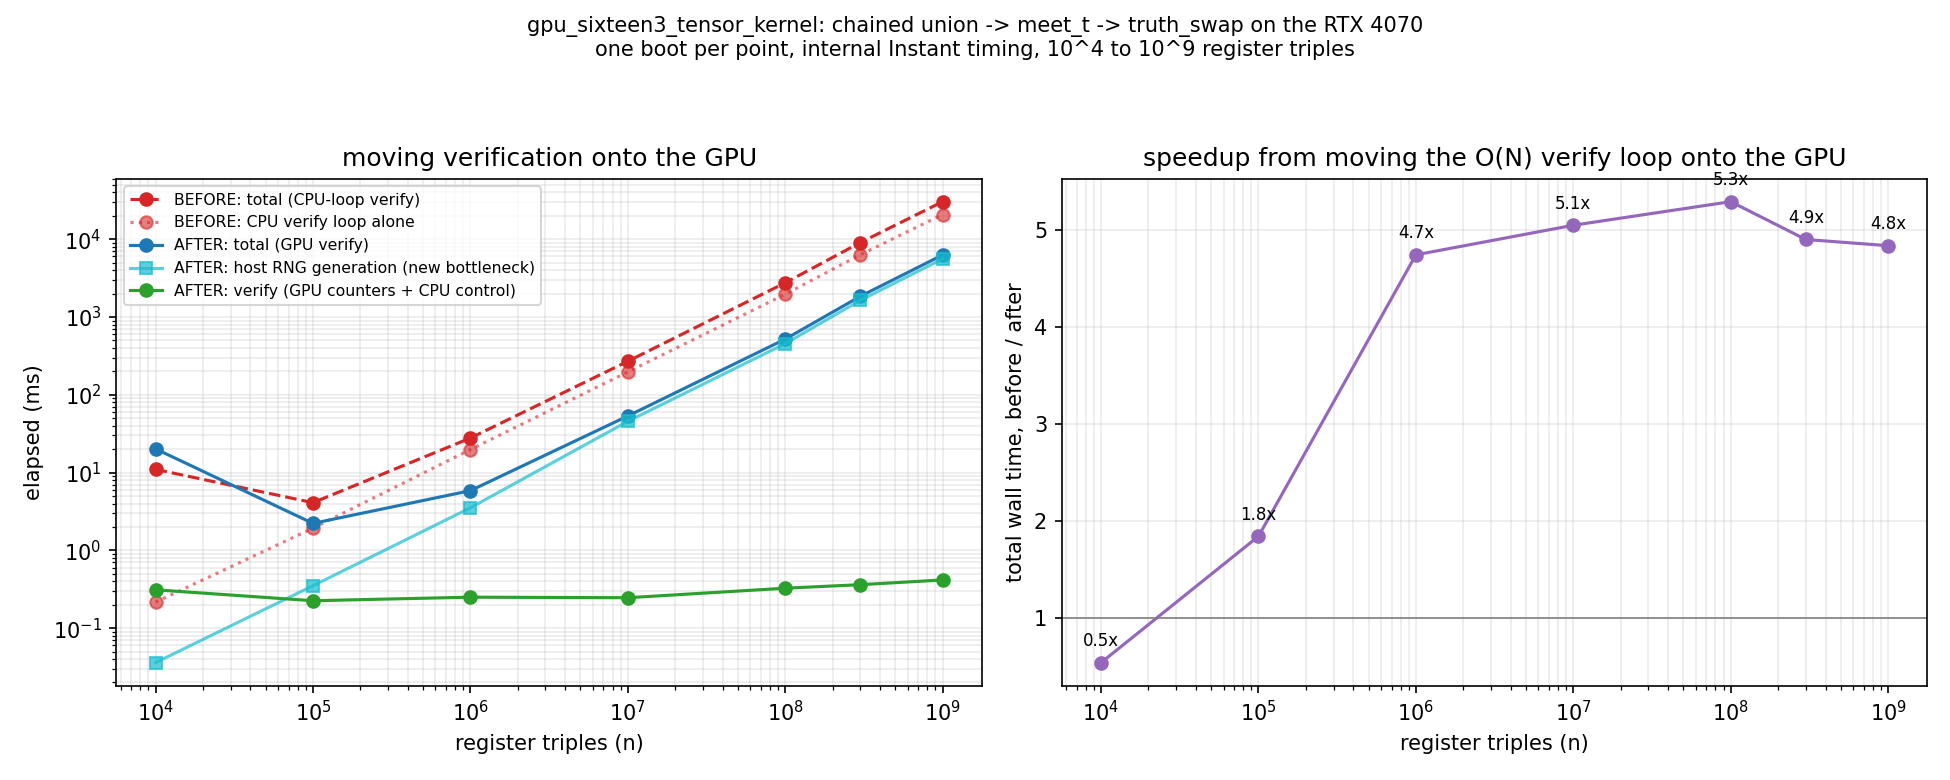
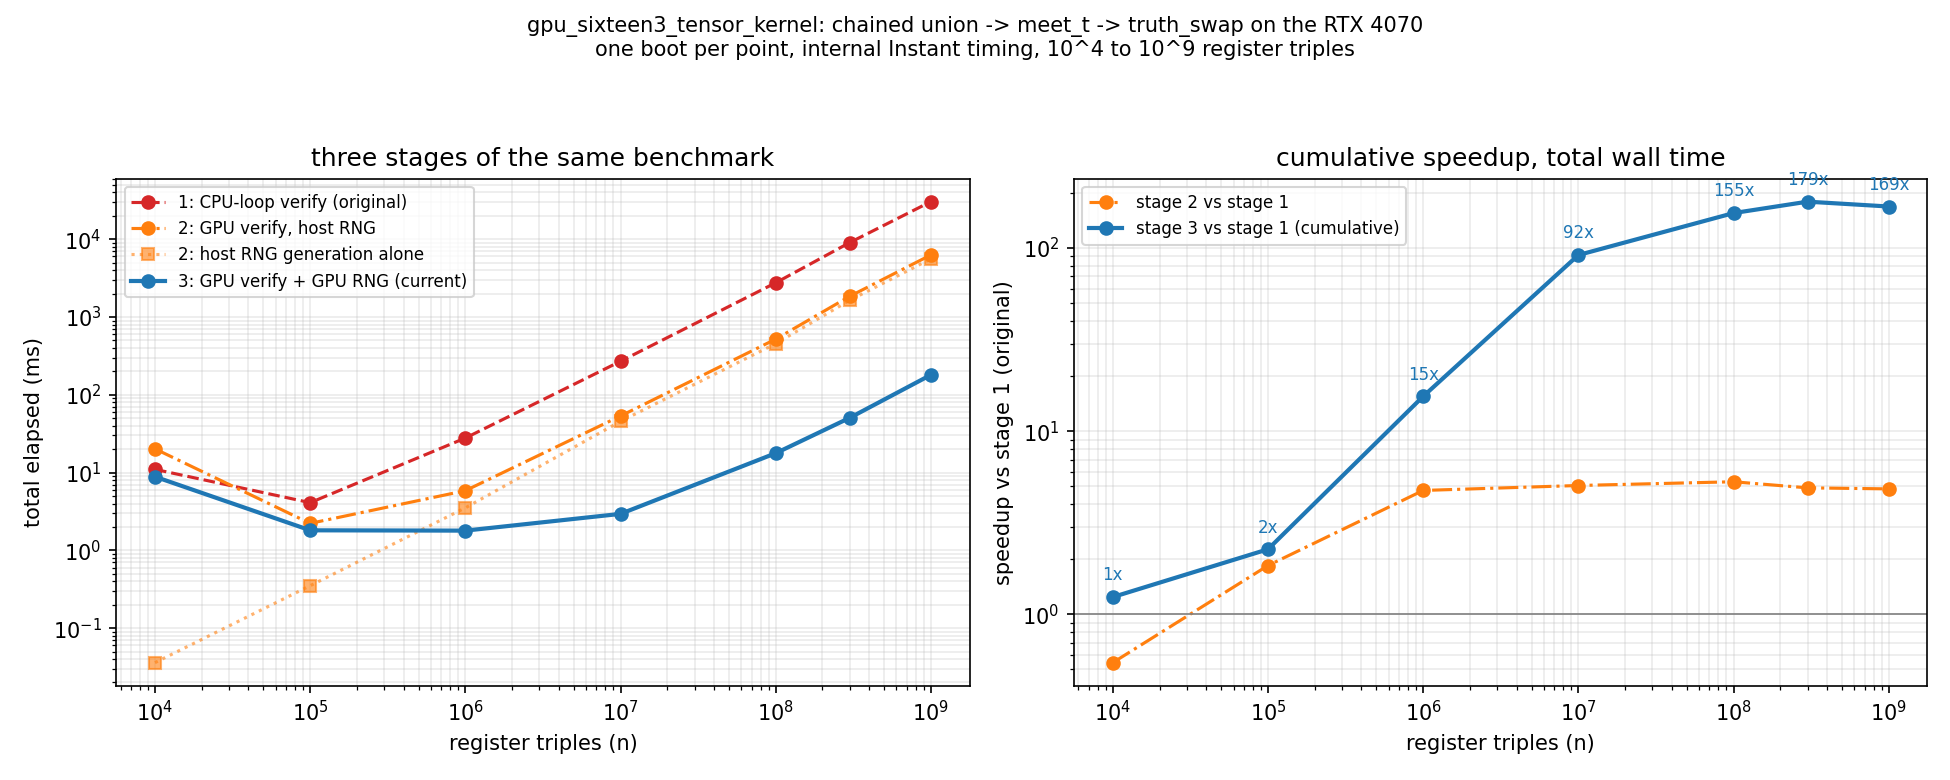
Moved gpu_sixteen3_tensor_kernel's input generation onto the GPU. Once verification stopped being the bottleneck, host-side RNG (a single- threaded loop filling three n-length buffers, then htod-copying them) was 89% of total time at n=10^9. Each thread now derives its own x, y, z from its own index
Reran the full 10^4-10^9 sweep, kept stage 2's numbers as their own file
(gpu_sixteen3_tensor_kernel_scaling_gpu_verify_host_rng.csv) rather than
overwrite them, alongside the original stage 1 file. Total wall time at
n=10^9: 180ms, down from 6283ms with GPU verify alone, down from 30427ms
in the original CPU-verify version. About 169x cumulative, peaking at
179x at n=3x10^8. Every stage still checked on-GPU against the
independent flat kernel and against a fixed 10,000-entry CPU control
sample: 0 mismatches at every n tried, self-reference check holds.

diff --git a/src/gpu_sixteen3_tensor_kernel.rs b/src/gpu_sixteen3_tensor_kernel.rs
@@ -16,6 +16,13 @@
 //! by gate, and chains three real gates through it -- union, meet_t, then
 //! truth_swap (the one of the three that actually exercises step 6's
 //! permutation) -- checked against the CPU at every stage, not just the end.
+//!
+//! Input generation is on the GPU too, one thread deriving its own x, y, z
+//! from its own index and a seed (`mix`, a MurmurHash3 finalizer) instead
+//! of a host loop filling a buffer the kernel then reads -- no host RNG
+//! cost, no htod copy of the inputs at all. See measurements/
+//! gpu_sixteen3_tensor_kernel_scaling.png: at n=10^9 host generation was
+//! 5.6s of a 6.3s total, the single largest cost in the whole pipeline.
 
 use alloc::format;
 use alloc::string::String;
@@ -48,19 +55,36 @@ use std::time::Instant;
 /// sample against the real CPU `imasm_core` functions as the ground-truth
 /// control that a GPU-only self-consistency check cannot be.
 const TENSOR_SRC: &str = r#"
+// MurmurHash3 finalizer, a counter-based generator: same (seed, counter)
+// always produces the same value, no state carried between threads, no
+// host-side loop -- each thread derives its own x, y, z from its own
+// index instead of reading them from a buffer someone else filled.
+__device__ __forceinline__ unsigned long long mix(unsigned long long seed, unsigned long long counter)
+{
+    unsigned long long h = seed ^ (counter * 0x9E3779B97F4A7C15ULL);
+    h ^= h >> 33; h *= 0xff51afd7ed558ccdULL;
+    h ^= h >> 33; h *= 0xc4ceb9fe1a85ec53ULL;
+    h ^= h >> 33;
+    return h;
+}
+
 // counters[0..7) = mismatch1, mismatch2, mismatch3, both1, both2, both3, self_ref_fail --
 // one buffer, indexed by offset, so the host side passes one argument, not seven.
 extern "C" __global__ void tensor_chain_verify(
     unsigned char *out_stage1, unsigned char *out_stage2, unsigned char *out_stage3,
+    unsigned char *out_x, unsigned char *out_y, unsigned char *out_z,
     unsigned long long *counters,
-    const unsigned char *x, const unsigned char *y, const unsigned char *z,
-    const unsigned long long n)
+    const unsigned long long seed, const unsigned long long n)
 {
     unsigned long long i = (unsigned long long)blockIdx.x * blockDim.x + threadIdx.x;
     if (i >= n) return;
 
-    // ⊢ void state for this thread's slot -- nothing read yet.
-    unsigned char xv = x[i], yv = y[i], zv = z[i];
+    // ⊢ void state for this thread's slot -- generated here, not read from
+    // a host-filled buffer: no host RNG loop, no htod copy of the inputs.
+    unsigned char xv = (unsigned char)(mix(seed, i*3ULL + 0) & 0xF);
+    unsigned char yv = (unsigned char)(mix(seed, i*3ULL + 1) & 0xF);
+    unsigned char zv = (unsigned char)(mix(seed, i*3ULL + 2) & 0xF);
+    out_x[i] = xv; out_y[i] = yv; out_z[i] = zv;
 
     // ── stage 1: union(x, y), arm/rejoin shape ──
     // ∈ split into T-arm / F-arm lanes.
@@ -129,16 +153,6 @@ fn pack(r: Reg16_3) -> u8 {
 fn unpack(b: u8) -> Reg16_3 {
     Reg16_3 { big_t: b & 1 != 0, big_f: b & 2 != 0, small_t: b & 4 != 0, small_f: b & 8 != 0 }
 }
-struct Xorshift(u64);
-impl Xorshift {
-    fn next_u8(&mut self) -> u8 {
-        let mut x = self.0;
-        x ^= x << 13; x ^= x >> 7; x ^= x << 17;
-        self.0 = x;
-        (x & 0xF) as u8
-    }
-}
-
 pub fn run(n: u64) -> String {
     let mut out = format!("gpu_sixteen3_tensor_kernel: chained union -> meet_t -> truth_swap, {n} register triples\n\n");
 
@@ -163,20 +177,20 @@ pub fn run(n: u64) -> String {
         Err(e) => return format!("{out}  load tensor_chain_verify failed: {e}\n"),
     };
 
+    // No host RNG loop, no htod copy of input triples -- each thread
+    // derives its own x, y, z from its own index and a seed (see `mix` in
+    // TENSOR_SRC), so the only "generation" cost left is choosing the seed.
     let t_gen = Instant::now();
-    let mut rng = Xorshift(0xC2B2AE3D27D4EB4F ^ n.wrapping_mul(0x165667B19E3779F9));
-    let xs_packed: Vec<u8> = (0..n).map(|_| rng.next_u8()).collect();
-    let ys_packed: Vec<u8> = (0..n).map(|_| rng.next_u8()).collect();
-    let zs_packed: Vec<u8> = (0..n).map(|_| rng.next_u8()).collect();
+    let seed = 0xC2B2AE3D27D4EB4Fu64 ^ n.wrapping_mul(0x165667B19E3779F9);
     let gen_elapsed = t_gen.elapsed();
 
     let t_htod = Instant::now();
-    let d_x = match stream.clone_htod(&xs_packed) { Ok(d) => d, Err(e) => return format!("{out}  htod x: {e}") };
-    let d_y = match stream.clone_htod(&ys_packed) { Ok(d) => d, Err(e) => return format!("{out}  htod y: {e}") };
-    let d_z = match stream.clone_htod(&zs_packed) { Ok(d) => d, Err(e) => return format!("{out}  htod z: {e}") };
     let mut d_s1 = match stream.alloc_zeros::<u8>(n as usize) { Ok(d) => d, Err(e) => return format!("{out}  alloc s1: {e}") };
     let mut d_s2 = match stream.alloc_zeros::<u8>(n as usize) { Ok(d) => d, Err(e) => return format!("{out}  alloc s2: {e}") };
     let mut d_s3 = match stream.alloc_zeros::<u8>(n as usize) { Ok(d) => d, Err(e) => return format!("{out}  alloc s3: {e}") };
+    let mut d_x = match stream.alloc_zeros::<u8>(n as usize) { Ok(d) => d, Err(e) => return format!("{out}  alloc x: {e}") };
+    let mut d_y = match stream.alloc_zeros::<u8>(n as usize) { Ok(d) => d, Err(e) => return format!("{out}  alloc y: {e}") };
+    let mut d_z = match stream.alloc_zeros::<u8>(n as usize) { Ok(d) => d, Err(e) => return format!("{out}  alloc z: {e}") };
     let mut d_counters = match stream.alloc_zeros::<u64>(7) { Ok(d) => d, Err(e) => return format!("{out}  alloc counters: {e}") };
 
     {
@@ -184,10 +198,11 @@ pub fn run(n: u64) -> String {
         builder.arg(&mut d_s1);
         builder.arg(&mut d_s2);
         builder.arg(&mut d_s3);
+        builder.arg(&mut d_x);
+        builder.arg(&mut d_y);
+        builder.arg(&mut d_z);
         builder.arg(&mut d_counters);
-        builder.arg(&d_x);
-        builder.arg(&d_y);
-        builder.arg(&d_z);
+        builder.arg(&seed);
         builder.arg(&n);
         let cfg = LaunchConfig::for_num_elems(n as u32);
         if let Err(e) = unsafe { builder.launch(cfg) } {
@@ -230,14 +245,17 @@ pub fn run(n: u64) -> String {
     // imasm_core functions directly, cost bounded regardless of n.
     let t_control = Instant::now();
     let k = (n as usize).min(10_000);
+    let ctrl_x: Vec<u8> = match stream.clone_dtoh(&d_x.slice(0..k)) { Ok(v) => v, Err(e) => return format!("{out}  dtoh control x: {e}") };
+    let ctrl_y: Vec<u8> = match stream.clone_dtoh(&d_y.slice(0..k)) { Ok(v) => v, Err(e) => return format!("{out}  dtoh control y: {e}") };
+    let ctrl_z: Vec<u8> = match stream.clone_dtoh(&d_z.slice(0..k)) { Ok(v) => v, Err(e) => return format!("{out}  dtoh control z: {e}") };
     let ctrl_s1: Vec<u8> = match stream.clone_dtoh(&d_s1.slice(0..k)) { Ok(v) => v, Err(e) => return format!("{out}  dtoh control s1: {e}") };
     let ctrl_s2: Vec<u8> = match stream.clone_dtoh(&d_s2.slice(0..k)) { Ok(v) => v, Err(e) => return format!("{out}  dtoh control s2: {e}") };
     let ctrl_s3: Vec<u8> = match stream.clone_dtoh(&d_s3.slice(0..k)) { Ok(v) => v, Err(e) => return format!("{out}  dtoh control s3: {e}") };
     let mut control_mismatch = 0u64;
     for i in 0..k {
-        let x = unpack(xs_packed[i]);
-        let y = unpack(ys_packed[i]);
-        let z = unpack(zs_packed[i]);
+        let x = unpack(ctrl_x[i]);
+        let y = unpack(ctrl_y[i]);
+        let z = unpack(ctrl_z[i]);
         let cpu_s1 = x.union(y);
         let cpu_s2 = meet_t(cpu_s1, z);
         let cpu_s3 = cpu_s2.truth_swap();
@@ -261,7 +279,7 @@ pub fn run(n: u64) -> String {
     ));
 
     out.push_str(&format!(
-        "\n  TIMING n={n} gen_ms={:.3} htod_launch_sync_ms={:.3} dtoh_counters_ms={:.3} cpu_control_ms={:.3} (control sample size {k}) total_ms={:.3}\n",
+        "\n  TIMING n={n} seed_ms={:.3} alloc_launch_sync_ms={:.3} dtoh_counters_ms={:.3} cpu_control_ms={:.3} (control sample size {k}) total_ms={:.3}\n",
         gen_elapsed.as_secs_f64() * 1000.0,
         htod_launch_elapsed.as_secs_f64() * 1000.0,
         dtoh_elapsed.as_secs_f64() * 1000.0,

diff --git a/measurements/plot_gpu_sixteen3_tensor_kernel_scaling.py b/measurements/plot_gpu_sixteen3_tensor_kernel_scaling.py
@@ -1,20 +1,26 @@
 #!/usr/bin/env python3
-"""Two charts from real `gpu_sixteen3_tensor_kernel <n>` runs on the RTX
-4070, one boot per n so CUDA context/module setup happens once and every
-number is the module's own internal Instant timing, not shell wall-clock
-including boot.
+"""Three stages of the same real benchmark, `gpu_sixteen3_tensor_kernel <n>`
+on the RTX 4070, n from 10^4 to 10^9, one boot per point so CUDA
+context/module setup happens once and every number is the module's own
+internal Instant timing, not shell wall-clock including boot.
 
-BEFORE (gpu_sixteen3_tensor_kernel_scaling_before_gpu_verify.csv): the
-original module, verification a single-threaded CPU loop reading every
-GPU result back and recomputing it against imasm_core.
+STAGE 1 (*_before_gpu_verify.csv): the original module. Verification was a
+single-threaded CPU loop reading every GPU result back and recomputing it
+against imasm_core.
 
-AFTER (gpu_sixteen3_tensor_kernel_scaling.csv): verification moved onto
-the GPU -- every thread also computes the same three stages via an
-independently-written flat kernel and folds disagreement into one atomic
-counter per stage, O(N) work that never leaves the device. A small,
-fixed-size sample (10,000 entries regardless of n) still gets checked
-directly against the real CPU imasm_core functions, the ground-truth
-control a GPU-only self-consistency check cannot be.
+STAGE 2 (*_gpu_verify_host_rng.csv): verification moved onto the GPU --
+every thread also computes the same three stages via an independently-
+written flat kernel and folds disagreement into one atomic counter per
+stage, O(N) work that never leaves the device. Input triples were still
+generated by a host-side loop and copied to the device (htod).
+
+STAGE 3 (gpu_sixteen3_tensor_kernel_scaling.csv, current): input generation
+moved onto the GPU too -- each thread derives its own x, y, z from its own
+index and a seed (a MurmurHash3-finalizer mix, counter-based, no host loop,
+no htod of the inputs at all). A fixed 10,000-entry sample, regardless of
+n, is still read back and checked directly against the real CPU imasm_core
+functions at every stage -- the ground-truth control a GPU-only
+self-consistency check cannot be.
 """
 import csv
 import matplotlib.pyplot as plt
@@ -26,45 +32,43 @@ def load(path):
             rows.append({k: float(v) for k, v in row.items() if k != "control_k"})
     return rows
 
-before = load("gpu_sixteen3_tensor_kernel_scaling_before_gpu_verify.csv")
-after = load("gpu_sixteen3_tensor_kernel_scaling.csv")
+s1 = load("gpu_sixteen3_tensor_kernel_scaling_before_gpu_verify.csv")
+s2 = load("gpu_sixteen3_tensor_kernel_scaling_gpu_verify_host_rng.csv")
+s3 = load("gpu_sixteen3_tensor_kernel_scaling.csv")
 
-n_b = [r["n"] for r in before]
-total_b = [r["total_ms"] for r in before]
-verify_b = [r["cpu_verify_ms"] for r in before]
-gpu_b = [r["htod_launch_sync_ms"] for r in before]
-
-n_a = [r["n"] for r in after]
-total_a = [r["total_ms"] for r in after]
-gen_a = [r["gen_ms"] for r in after]
-gpu_a = [r["htod_launch_sync_ms"] for r in after]
-verify_a = [r["dtoh_counters_ms"] + r["cpu_control_ms"] for r in after]
+n1, total1 = [r["n"] for r in s1], [r["total_ms"] for r in s1]
+n2, total2 = [r["n"] for r in s2], [r["total_ms"] for r in s2]
+n3, total3 = [r["n"] for r in s3], [r["total_ms"] for r in s3]
+gen2 = [r["gen_ms"] for r in s2]  # stage 2's host RNG cost, gone by stage 3
 
 fig, (ax1, ax2) = plt.subplots(1, 2, figsize=(13, 5.2))
 
-ax1.plot(n_b, total_b, "o--", color="tab:red", label="BEFORE: total (CPU-loop verify)")
-ax1.plot(n_b, verify_b, "o:", color="tab:red", alpha=0.6, label="BEFORE: CPU verify loop alone")
-ax1.plot(n_a, total_a, "o-", color="tab:blue", label="AFTER: total (GPU verify)")
-ax1.plot(n_a, gen_a, "s-", color="tab:cyan", alpha=0.7, label="AFTER: host RNG generation (new bottleneck)")
-ax1.plot(n_a, verify_a, "o-", color="tab:green", label="AFTER: verify (GPU counters + CPU control)")
+ax1.plot(n1, total1, "o--", color="tab:red", label="1: CPU-loop verify (original)")
+ax1.plot(n2, total2, "o-.", color="tab:orange", label="2: GPU verify, host RNG")
+ax1.plot(n2, gen2, "s:", color="tab:orange", alpha=0.6, label="2: host RNG generation alone")
+ax1.plot(n3, total3, "o-", color="tab:blue", linewidth=2, label="3: GPU verify + GPU RNG (current)")
 ax1.set_xscale("log")
 ax1.set_yscale("log")
 ax1.set_xlabel("register triples (n)")
-ax1.set_ylabel("elapsed (ms)")
-ax1.set_title("moving verification onto the GPU")
-ax1.legend(fontsize=7.5, loc="upper left")
+ax1.set_ylabel("total elapsed (ms)")
+ax1.set_title("three stages of the same benchmark")
+ax1.legend(fontsize=8, loc="upper left")
 ax1.grid(True, which="both", alpha=0.25)
 
-speedup = [b / a for b, a in zip(total_b, total_a)]
-ax2.plot(n_a, speedup, "o-", color="tab:purple")
+speedup_2 = [a / b for a, b in zip(total1, total2)]
+speedup_3 = [a / b for a, b in zip(total1, total3)]
+ax2.plot(n2, speedup_2, "o-.", color="tab:orange", label="stage 2 vs stage 1")
+ax2.plot(n3, speedup_3, "o-", color="tab:blue", linewidth=2, label="stage 3 vs stage 1 (cumulative)")
 ax2.set_xscale("log")
+ax2.set_yscale("log")
 ax2.set_xlabel("register triples (n)")
-ax2.set_ylabel("total wall time, before / after")
-ax2.set_title("speedup from moving the O(N) verify loop onto the GPU")
+ax2.set_ylabel("speedup vs stage 1 (original)")
+ax2.set_title("cumulative speedup, total wall time")
+ax2.legend(fontsize=8, loc="upper left")
 ax2.grid(True, which="both", alpha=0.25)
 ax2.axhline(1.0, color="gray", linewidth=0.8)
-for x, y in zip(n_a, speedup):
-    ax2.annotate(f"{y:.1f}x", (x, y), textcoords="offset points", xytext=(0, 8), fontsize=8, ha="center")
+for x, y in zip(n3, speedup_3):
+    ax2.annotate(f"{y:.0f}x", (x, y), textcoords="offset points", xytext=(0, 8), fontsize=8, ha="center", color="tab:blue")
 
 fig.suptitle(
     "gpu_sixteen3_tensor_kernel: chained union -> meet_t -> truth_swap on the RTX 4070\n"
@@ -74,5 +78,5 @@ fig.suptitle(
 fig.tight_layout(rect=[0, 0, 1, 0.93])
 fig.savefig("gpu_sixteen3_tensor_kernel_scaling.png", dpi=150)
 print("wrote gpu_sixteen3_tensor_kernel_scaling.png")
-for x, y in zip(n_a, speedup):
-    print(f"  n={int(x):>12}  {y:.2f}x")
+for x, y in zip(n3, speedup_3):
+    print(f"  n={int(x):>12}  {y:.1f}x cumulative")

diff --git a/measurements/README.md b/measurements/README.md
@@ -19,28 +19,37 @@ Kept because a measurement whose inputs are gone is a claim, not a measurement.
   keys. A different object from the twelve-glyph type words, and it is kept apart
   for that reason: 36 of 80 vacuous there, and that rate does NOT transfer.
 
-`gpu_sixteen3_tensor_kernel_scaling_before_gpu_verify.csv`
-  `gpu_sixteen3_tensor_kernel <n>` run once per row, n from 10^4 to 10^9, one
-  `run_hosted_cmds.sh` boot per row, module's own internal `Instant` timing.
-  The ORIGINAL module: verification was a single-threaded CPU loop reading
-  every GPU result back and recomputing it against imasm_core. Single sample
-  per row -- the 10^4/10^5 points are noisy (cold GPU clocks, driver
-  scheduling), not a clean trend; the finding that holds from 10^6 up is the
-  ~30:1 ratio between that CPU loop and the GPU stage it was checking.
+Three stages of the same benchmark, `gpu_sixteen3_tensor_kernel <n>`, n from
+10^4 to 10^9, one `run_hosted_cmds.sh` boot per row so CUDA context/module
+setup happens once and every number is the module's own internal `Instant`
+timing:
 
-`gpu_sixteen3_tensor_kernel_scaling.csv`
-  The same sweep after moving verification onto the GPU: every thread also
-  computes the same three stages via an independently-written flat kernel
-  and folds any disagreement into one atomic counter per stage, O(N) work
-  that never leaves the device. A fixed 10,000-entry sample (regardless of
-  n) still gets checked directly against the real CPU imasm_core functions
-  as the ground-truth control a GPU-only self-check cannot be.
+`gpu_sixteen3_tensor_kernel_scaling_before_gpu_verify.csv` (stage 1, original)
+  Verification was a single-threaded CPU loop reading every GPU result back
+  and recomputing it against imasm_core. Single sample per row -- the
+  10^4/10^5 points are noisy (cold GPU clocks, driver scheduling), not a
+  clean trend; the finding that holds from 10^6 up is the ~30:1 ratio
+  between that CPU loop and the GPU stage it was checking.
+
+`gpu_sixteen3_tensor_kernel_scaling_gpu_verify_host_rng.csv` (stage 2)
+  Verification moved onto the GPU: every thread also computes the same
+  three stages via an independently-written flat kernel and folds any
+  disagreement into one atomic counter per stage, O(N) work that never
+  leaves the device. Input triples were still a host-side loop copied to
+  the device (htod) -- that generation became the new bottleneck, ~89% of
+  total time at n=10^9.
+
+`gpu_sixteen3_tensor_kernel_scaling.csv` (stage 3, current)
+  Input generation moved onto the GPU too: each thread derives its own x,
+  y, z from its own index and a seed (a MurmurHash3-finalizer mix,
+  counter-based -- no host loop, no htod of the inputs at all). A fixed
+  10,000-entry sample, regardless of n, is still read back and checked
+  directly against the real CPU imasm_core functions as the ground-truth
+  control a GPU-only self-check cannot be.
 
 `plot_gpu_sixteen3_tensor_kernel_scaling.py` / `gpu_sixteen3_tensor_kernel_scaling.png`
-  Before/after: where the time goes at each scale, and the wall-clock
-  speedup from moving the O(N) verify loop onto the GPU (roughly 5x from
-  10^6 triples up; a real ~2x slowdown below 10^5, atomic contention with
-  nothing to amortize it against, shown rather than cropped out). Host-side
-  RNG generation of the input triples is the new bottleneck at scale, not
-  verification. Regenerate with `python3
-  plot_gpu_sixteen3_tensor_kernel_scaling.py` from this directory.
+  All three stages, and cumulative speedup vs stage 1: roughly 169x at
+  n=10^9, peaking at 179x at n=3x10^8. Below 10^5 the speedup is closer to
+  1-2x -- kernel-launch and atomic-counter overhead has little to amortize
+  against at that size, shown rather than cropped out. Regenerate with
+  `python3 plot_gpu_sixteen3_tensor_kernel_scaling.py` from this directory.
